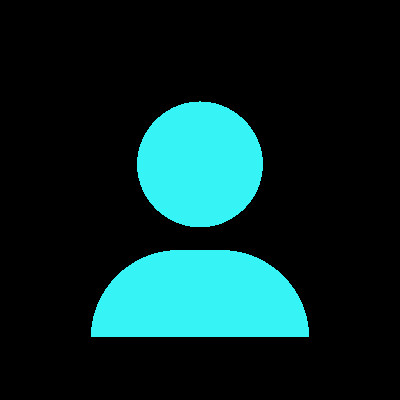
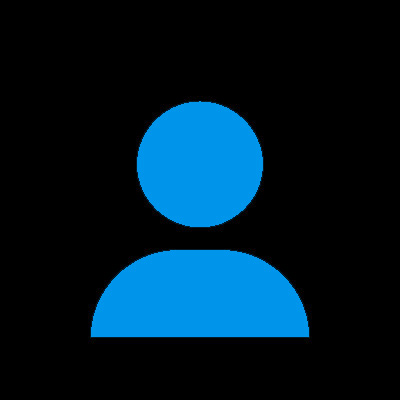
:sparkles: Improve theme style

Changed region(s): [[0.21, 0.6, 0.78, 0.87], [0.33, 0.24, 0.66, 0.57]]

diff --git a/static/css/hugo-academic.css b/static/css/hugo-academic.css
@@ -1,17 +1,15 @@
 /*************************************************
- *  Academia Theme for Hugo.
- *  http://www.cushen.me
- *  Copyright 2016 George Cushen
+ *  Hugo Academic: an academic theme for Hugo.
+ *  https://github.com/gcushen/hugo-academic
  **************************************************/
-
 
 /*************************************************
  *  Fonts
  **************************************************/
 
-@import url(https://fonts.googleapis.com/css?family=Roboto:400,700);
-@import url(https://fonts.googleapis.com/css?family=Roboto+Mono);
-@import url(https://fonts.googleapis.com/css?family=Merriweather);
+@import url(//fonts.googleapis.com/css?family=Lato:400,700);
+@import url(//fonts.googleapis.com/css?family=Roboto+Mono);
+@import url(//fonts.googleapis.com/css?family=Merriweather);
 
 /*************************************************
  *  Core
@@ -29,22 +27,33 @@ body {
     padding-top: 90px;
 }
 
-h1, h2, h3, h4, h5, h6 {
-    font-family: 'Roboto', sans-serif;
-    font-weight: 700;
-    line-height: 1;
+h1, h2, h3, h4, h5, h6, .navbar-default {
+    font-family: 'Lato', sans-serif;
+    font-weight: 400;
+    line-height: 1em;
     text-rendering: optimizeLegibility;
 }
 
-a, a:visited {
-    color: #33cc99;
+h2 {
+    margin-bottom: 21px;
+    font-size: 48px;
+    font-weight: 400;
+}
+
+h3 {
+    margin-bottom: 11px;
+    font-weight: 700;
+}
+
+a, a:visited, h3.post-title a:hover {
+    color: #0095eb;
     text-decoration:none;
     transition:color 0.6s ease;
     -webkit-transition:color 0.6s ease;
 }
 
 a:hover {
-    color: #11aa66;
+    color: #005181;
 }
 
 h3.post-title a {
@@ -53,28 +62,78 @@ h3.post-title a {
     -webkit-transition: color 0.6s ease;
 }
 
-h3.post-title a:hover {
-    color: #33cc99;
-}
-
 pre, code {
     font-family: 'Roboto Mono', 'Courier New', 'Courier', monospace;
+}
+
+*, *:before, *:after {
+    -webkit-box-sizing: border-box;
+    -moz-box-sizing: border-box;
+    box-sizing: border-box;
+}
+
+.row:after, .row:before {
+    content: " ";
+    display: table;
 }
 
 /*************************************************
  *  Footer
  **************************************************/
 
-footer, footer p {
-    font-size: 0.9em;
-    margin: 4em 0 0;
-    padding: 2em 0;
-    text-align: center;
+footer {
+    margin: 4rem 0 0;
+    padding: 2rem 0;
     width: 100%;
 }
 
-.site-footer {
+footer p {
+    font-size: 0.75rem;
+    text-align: center;
+}
+
+footer p.powered-by {
+    line-height: 40px;
+}
+
+.site-footer, footer a#back_to_top i {
     color: #899596;
+}
+
+/*************************************************
+ *  Home Sections
+ **************************************************/
+
+.home-section-wrapper {
+    position: relative;
+    margin-bottom: 45px;
+    border-style: solid;
+    border-color: #f7f7f7;
+    border-width: 0px;
+    background-repeat: no-repeat;
+    background-position: center center;
+    background-attachment: scroll;
+    background-size: cover;
+}
+
+.home-section-wrapper.full_width {
+    padding-left: calc(0vw);
+    padding-right: calc(0vw);
+    margin-left: calc(0vw);
+    margin-right: calc(0vw);
+}
+
+.home-section-wrapper.full_width.home {
+    padding: 110px 371.25px;
+    margin-top: 0px;
+    margin-bottom: 0px;
+    width: 1905px;
+    margin-left: -382.5px;
+    background-color: rgb(247, 247, 247);
+}
+
+.home-section-wrapper.full_width.home.alt {
+    background-color: rgb(255, 255, 255);
 }
 
 /*************************************************
@@ -85,6 +144,14 @@ footer, footer p {
     margin-bottom: 20px;
 }
 
+.article-list-item {
+    margin-bottom: 40px;
+}
+
+.article-list-item:last-child {
+    margin-bottom: 0 !important;
+}
+
 .article-list-item .article-metadata {
     margin-bottom: 5px;
 }
@@ -92,6 +159,21 @@ footer, footer p {
 .article-metadata .article-date, .article-metadata .article-tags {
     margin-right: 10px;
     color: #888;
+}
+
+.share {
+    width: 140px;
+    line-height: 1;
+}
+
+.share a {
+    color: #0095eb;
+    text-decoration: none;
+    font-size: 1.75rem;
+}
+
+#comments {
+    padding: 20px;
 }
 
 /*************************************************
@@ -195,10 +277,10 @@ ul.ul-edu li .description p.institution {
  **************************************************/
 
 .btn-primary {
-    border-color: #33cc99;
+    border-color: #0095eb;
 }
 .btn-primary:hover, .btn-primary:focus, .btn-primary:active, .btn-primary.active, .open > .dropdown-toggle.btn-primary {
-    background: #33cc99;
+    background: #0095eb;
 }
 
 /*************************************************
@@ -213,7 +295,7 @@ ul.ul-edu li .description p.institution {
 
 .btn-primary.btn-outline {
     /*color: #428bca;*/
-    color: #33cc99;
+    color: #0095eb;
 }
 
 .btn-success.btn-outline {
@@ -262,7 +344,7 @@ ul.ul-edu li .description p.institution {
 }
 
 .navbar-default .navbar-nav li a:hover {
-    color: #11aa66;
+    color: #0095eb;
 }
 
 .navbar-brand, .navbar-nav li a {
@@ -283,6 +365,14 @@ ul.ul-edu li .description p.institution {
 }
 
 @media (max-width:992px){
+    .home-section-wrapper.full_width.home {
+        padding: 110px 0px;
+        margin-top: 0px;
+        margin-bottom: 0px;
+        margin-left: 0px;
+        width: 100%;
+    }
+
     .space-below {
         margin-bottom: 10px;
     }
@@ -293,6 +383,7 @@ ul.ul-edu li .description p.institution {
 
     .navbar-header {
         float: none;
+        min-height: inherit;
     }
     .navbar-left,.navbar-right {
         float: none !important;

diff --git a/static/js/hugo-academic.js b/static/js/hugo-academic.js
@@ -1,7 +1,84 @@
-(function(){
+/*************************************************
+ *  Hugo Academic: an academic theme for Hugo.
+ *  https://github.com/gcushen/hugo-academic
+ **************************************************/
 
-  $("a[href='#'").click(function(e) {
-    e.preventDefault();
+(function($){
+
+  /* ---------------------------------------------------------------------------
+   * Add smooth scrolling to all links inside the main navbar.
+   * --------------------------------------------------------------------------- */
+
+  $("#navbar-main li.nav-item a").on('click', function(event){
+
+    var hash = this.hash;
+    var url = $(this).attr('href');
+
+    if( hash && $(hash).length && (url.split('#')[0] == window.location.pathname)) {
+      // Prevent default click behavior
+      event.preventDefault();
+
+      var navbarHeight = $('.navbar-header').innerHeight;
+
+      // Use jQuery's animate() method for smooth page scrolling.
+      // The numerical parameter specifies the time (ms) taken to scroll to the specified hash.
+      $('html, body').animate({
+        scrollTop: $(hash).offset().top - navbarHeight
+      }, 800, function () {
+        // Add hash (#) to URL once finished scrolling to hash position
+        window.location.hash = hash;
+      });
+    }
   });
 
-})();
+  /* ---------------------------------------------------------------------------
+   * Smooth scrolling for mouse wheel.
+   * --------------------------------------------------------------------------- */
+
+  function smoothScroll(scrollTime, scrollDistance){
+
+    if (navigator.userAgent.indexOf('Mac') != -1 || navigator.userAgent.indexOf('Firefox') > -1 || jQuery('body').hasClass('is-horizontal')) {
+      return;
+    }
+
+    jQuery(window).on("mousewheel DOMMouseScroll", function(event){
+
+      event.preventDefault();
+
+      var delta = event.originalEvent.wheelDelta/120 || -event.originalEvent.detail/3;
+      var scrollTop = jQuery(window).scrollTop();
+      var finalScroll = scrollTop - parseInt(delta*scrollDistance);
+
+      TweenMax.to(jQuery(window), scrollTime, {
+        scrollTo : { y: finalScroll, autoKill:true },
+        ease: Expo.easeOut,
+        autoKill: true,
+        overwrite: 5
+      });
+
+    });
+
+  }
+
+  /* ---------------------------------------------------------------------------
+   * Hide mobile collapsable menu on clicking a link.
+   * --------------------------------------------------------------------------- */
+
+  $(document).on('click','.navbar-collapse.in',function(e) {
+    if( $(e.target).is('a') && $(e.target).attr('class') != 'dropdown-toggle' ) {
+      $(this).collapse('hide');
+    }
+  });
+
+  /* --------------------------------------------------------------------------------------------------------------------------
+   * On Window Load.
+   * ----------------------------------------------------------------------------------------------------------------------- */
+
+  $(window).load(function(){
+
+    // Enable smooth scrolling with mouse wheel
+    smoothScroll(1.3, 220);
+
+  });
+
+})(jQuery);
